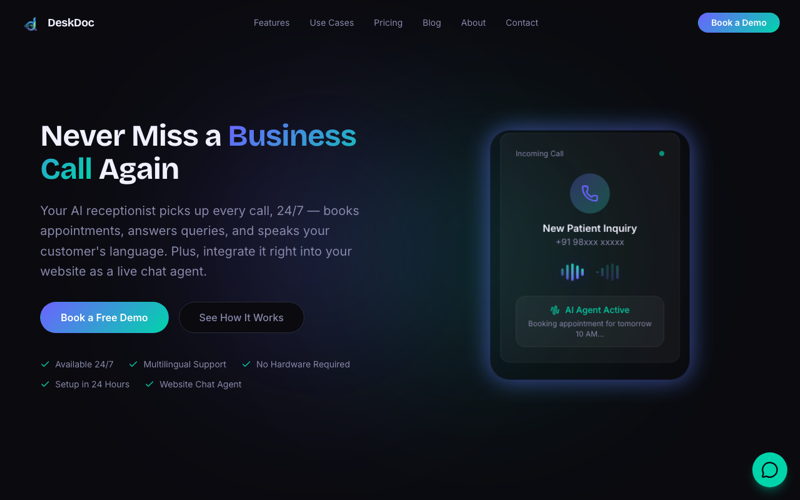
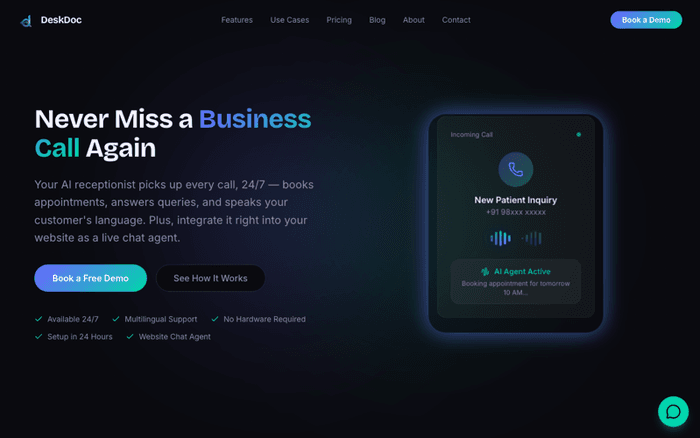
Closeout pass: contact form a11y, /projects LCP, heading order, resume link
- Fix InputField/TextareaField missing id attributes so label htmlFor
  actually resolves; also fix a fullname/fullName case mismatch that
  would have kept the association broken even with the id alone.
- Add :focus-visible border/ring to the Contact form's input and
  textarea — outline: none previously had no replacement.
- Convert featured project screenshots to WebP (with PNG fallback via
  picture), resize from 800x500 to 700x438 to match rendered column
  width, add fetchpriority="high" since they're LCP and not lazy
  loaded. /projects mobile Performance 82 -> 94.
- Fix heading-order skips on About, Resume, and Projects (traced DOM
  paths); also caught and fixed the same pattern on Contact
  (h2->h4->h6) while verifying, which wasn't in the original trace.
- Scope transition: all to the actual animated property in
  ContactItem, Button, and Contact (5 spots).
- Point both resume links (hero + About) at the Drive direct-download
  URL with target="_blank" rel="noreferrer"; verified in a signed-out
  browser context that it downloads directly with no auth prompt.
- Raise the Working Agreement's Lighthouse regression baseline to the
  current numbers (94+/98+ Perf, 100/100 A11y, 100 BP, 100 SEO).

Verified via production build + real-browser DOM checks, not just
Lighthouse scores: label/id resolution, focus-visible computed style
after transition settles, and heading sequences on all four routes.

Claude-Session: https://claude.ai/code/session_0196jSMfCTHy6QKvUqwCguaY

diff --git a/src/Pages/Contact.js b/src/Pages/Contact.js
@@ -98,11 +98,11 @@ function Contact() {
           <div className="left-content">
             {renderAlert()}
             <div className="contact-title">
-              <h4>Get In Touch</h4>
+              <h3>Get In Touch</h3>
             </div>
             <form className="form" onSubmit={handleSubmit}>
               <div className="form-field">
-                <label htmlFor="fullname">Enter your name*</label>
+                <label htmlFor="fullName">Enter your name*</label>
                 <InputField value={values.fullName} handleChange={handleChange} name="fullName" type="text" placeholder="Full Name" />
               </div>
               <div className="form-field">
@@ -192,7 +192,7 @@ const ContactPageStyled = styled.section`
       }
     }
     .contact-title {
-      h4 {
+      h3 {
         color: var(--white-color);
         padding: 1rem 0;
         font-size: 1.8rem;
@@ -224,6 +224,11 @@ const ContactPageStyled = styled.section`
           padding: 0 15px;
           width: 100%;
           color: inherit;
+          transition: border-color 0.2s ease, box-shadow 0.2s ease;
+          &:focus-visible {
+            border-color: var(--white-color);
+            box-shadow: 0 0 0 3px rgba(232, 233, 237, 0.15);
+          }
         }
         textarea {
           background-color: transparent;
@@ -232,6 +237,11 @@ const ContactPageStyled = styled.section`
           color: inherit;
           width: 100%;
           padding: 0.8rem 1rem;
+          transition: border-color 0.2s ease, box-shadow 0.2s ease;
+          &:focus-visible {
+            border-color: var(--white-color);
+            box-shadow: 0 0 0 3px rgba(232, 233, 237, 0.15);
+          }
         }
         button{
           outline: none;
@@ -241,7 +251,7 @@ const ContactPageStyled = styled.section`
     font-size: inherit;
     color: var(--white-color);
     cursor: pointer;
-    transition: all .4s ease-in-out;
+    transition: background-color .4s ease-in-out;
     margin-bottom: .6rem;
     &:active ,&:focus{
         background-color: var(--primary-color);
@@ -266,7 +276,7 @@ const ContactPageStyled = styled.section`
       a {
         color: var(--primary-color-light);
         text-decoration: underline;
-        transition: all 0.3s ease;
+        transition: color 0.3s ease;
         &:hover {
           color: var(--white-color);
         }
@@ -278,7 +288,7 @@ const ContactPageStyled = styled.section`
         font-size: var(--font-size-small);
         padding: 0.15rem 0.6rem;
         cursor: pointer;
-        transition: all 0.3s ease;
+        transition: border-color 0.3s ease, color 0.3s ease;
         &:hover {
           border-color: var(--primary-color-light);
           color: var(--primary-color-light);

diff --git a/src/Components/ImageSection.js b/src/Components/ImageSection.js
@@ -7,13 +7,13 @@ function ImageSection() {
     return (
         <ImageSectionStyled>
             <img src={resume} alt="Amritanshu Suyal" width="1600" height="1600" />
-            <h4>I am <span>Amritanshu</span></h4>
+            <h3>I am <span>Amritanshu</span></h3>
             <p className="paragraph">
                 I build the infrastructure that lets AI agents actually work inside enterprise software. At Darwinbox, an HRMS serving 4M+ enterprise users, I work on the agent platform — the layer between LLMs and real business systems.
                 <br /><br />
                 Most of the hard problems here aren't prompting. They're cost, correctness, and trust.
             </p>
-            <a href="/Amritanshu_Suyal_Resume.pdf" download><PrimaryButton title={'View Resume'} /></a>
+            <a href="https://drive.google.com/uc?export=download&id=1MJ50aA6VYjfRoU6xcYnS3a_wZZefAohU" target="_blank" rel="noreferrer"><PrimaryButton title={'View Resume'} /></a>
         </ImageSectionStyled>
     )
 }
@@ -27,7 +27,7 @@ const ImageSectionStyled = styled.div`
         object-fit: cover;
         margin-bottom: 1.5rem;
     }
-    h4{
+    h3{
         font-size: var(--font-size-h3);
         color: var(--white-color);
         span{

diff --git a/src/Components/FeaturedProjectCard.js b/src/Components/FeaturedProjectCard.js
@@ -1,12 +1,21 @@
 import React from "react";
 import styled from "styled-components";
 
-function FeaturedProjectCard({ image, title, text, link, stack }) {
+function FeaturedProjectCard({ image, imageWebp, imageWidth, imageHeight, title, text, link, stack }) {
   return (
     <FeaturedProjectCardStyled>
-      <img src={image} alt={`${title} screenshot`} />
+      <picture>
+        {imageWebp && <source srcSet={imageWebp} type="image/webp" />}
+        <img
+          src={image}
+          width={imageWidth}
+          height={imageHeight}
+          alt={`${title} screenshot`}
+          fetchpriority="high"
+        />
+      </picture>
       <div className="content">
-        <h4>{title}</h4>
+        <h3>{title}</h3>
         <p>{text}</p>
         {stack && stack.length > 0 && (
           <ul className="stack">
@@ -43,7 +52,7 @@ const FeaturedProjectCardStyled = styled.div`
     padding: 1.5rem;
   }
 
-  h4 {
+  h3 {
     color: var(--white-color);
     font-size: 1.6rem;
     padding-bottom: 0.6rem;

diff --git a/src/Pages/About.js b/src/Pages/About.js
@@ -33,14 +33,14 @@ function About() {
               </div>
             </div>
 
-            <h4 className="skills-heading">
+            <h3 className="skills-heading">
               <span className="tick" aria-hidden="true"></span>
               Skills
-            </h4>
+            </h3>
             <div className="skill-groups">
               {skillGroups.map((group) => (
                 <div className="skill-group" key={group.label}>
-                  <h5>{group.label}</h5>
+                  <h4>{group.label}</h4>
                   <div className="pills">
                     {group.items.map((item) => (
                       <span className="pill" key={item}>
@@ -112,7 +112,7 @@ const AboutStyled = styled.section`
     gap: 1.6rem;
   }
   .skill-group {
-    h5 {
+    h4 {
       color: var(--primary-color-light);
       font-size: var(--font-size-small);
       text-transform: uppercase;

diff --git a/src/Components/ResumeItem.js b/src/Components/ResumeItem.js
@@ -9,8 +9,8 @@ function ResumeItem({ year, title, subTitle, text, bullets }) {
                 <p>{year}</p>
             </div>
             <div className="right-content">
-                <h5>{title}</h5>
-                <h6>{subTitle}</h6>
+                <h4>{title}</h4>
+                <h5>{subTitle}</h5>
                 {text && <p>{text}</p>}
                 {bullets && (
                     <ul>
@@ -75,7 +75,7 @@ const ResumeItemStyled = styled.div`
                 display: none;
             }
         }
-        h5{
+        h4{
             color: var(--primary-color-light);
             font-size: var(--font-size-h5);
             margin-top: -0.7rem;
@@ -84,7 +84,7 @@ const ResumeItemStyled = styled.div`
                 margin-top: 0;
             }
         }
-        h6{
+        h5{
             padding-bottom: .6rem;
             font-size: var(--font-size-h6);
         }

diff --git a/src/Components/ContactItem.js b/src/Components/ContactItem.js
@@ -11,7 +11,7 @@ function ContactItem({title, icon, cont1, cont2}) {
                 }
             </div>
             <div className="right-content">
-                <h6>{title}</h6>
+                <h4>{title}</h4>
                 <p>{cont1}</p>
                 <p>{cont2}</p>
             </div>
@@ -40,7 +40,7 @@ const ContactItemStyled = styled.div`
         }
     }
     .right-content{
-        h6{
+        h4{
             color: var(--white-color);
             font-size: 1.2rem;
             padding-bottom: .6rem;
@@ -50,7 +50,7 @@ const ContactItemStyled = styled.div`
             a{
                 color: var(--primary-color-light);
                 text-decoration: underline;
-                transition: all 0.3s ease;
+                transition: color 0.3s ease;
                 &:hover{
                     color: var(--white-color);
                 }

diff --git a/src/Data/portfolios.js b/src/Data/portfolios.js
@@ -1,10 +1,15 @@
 import deskdoc from "../img/portImages/deskdoc.png";
+import deskdocWebp from "../img/portImages/deskdoc.webp";
 import finovaai from "../img/portImages/finovaai.png";
+import finovaaiWebp from "../img/portImages/finovaai.webp";
 
 export const featuredProjects = [
   {
     id: "deskdoc",
     image: deskdoc,
+    imageWebp: deskdocWebp,
+    imageWidth: 700,
+    imageHeight: 438,
     link: "https://deskdoc.in",
     title: "DeskDoc",
     text: "AI voice receptionist for clinics — cuts average call handling time by 40%.",
@@ -13,6 +18,9 @@ export const featuredProjects = [
   {
     id: "finovaai",
     image: finovaai,
+    imageWebp: finovaaiWebp,
+    imageWidth: 700,
+    imageHeight: 438,
     link: "https://finova-ai-official.vercel.app",
     title: "FinovaAI",
     text: "Personal finance app.",

diff --git a/src/Pages/Home.js b/src/Pages/Home.js
@@ -33,8 +33,9 @@ function Home() {
           </p>
           <div className="actions">
             <a
-              href="/Amritanshu_Suyal_Resume.pdf"
-              download
+              href="https://drive.google.com/uc?export=download&id=1MJ50aA6VYjfRoU6xcYnS3a_wZZefAohU"
+              target="_blank"
+              rel="noreferrer"
               className="resume-link"
             >
               Download Resume
@@ -81,6 +82,9 @@ function Home() {
               <FeaturedProjectCard
                 key={project.id}
                 image={project.image}
+                imageWebp={project.imageWebp}
+                imageWidth={project.imageWidth}
+                imageHeight={project.imageHeight}
                 title={project.title}
                 text={project.text}
                 link={project.link}

diff --git a/src/Components/InputField.js b/src/Components/InputField.js
@@ -3,8 +3,8 @@ const InputField = (props) => {
   const { handleChange, name, type, value } = props;
   return (
     <div className="mb-5">
-  
-      <input className="border-b-2 outline-none text-gray-700 w-full bg-gray-100 h-10 px-2" type={type} onChange={handleChange} value={value} name={name} required />
+
+      <input id={name} className="border-b-2 outline-none text-gray-700 w-full bg-gray-100 h-10 px-2" type={type} onChange={handleChange} value={value} name={name} required />
     </div>
   )
 }

diff --git a/src/Components/TextareaField.js b/src/Components/TextareaField.js
@@ -3,8 +3,8 @@ const TextareaField = (props) => {
   const { handleChange, name, value } = props;
   return (
     <div>
-  
-      <textarea onChange={handleChange} name={name} rows="4" className="w-full border-b-2 outline-none bg-gray-100 p-2" value={value}></textarea>
+
+      <textarea id={name} onChange={handleChange} name={name} rows="4" className="w-full border-b-2 outline-none bg-gray-100 p-2" value={value}></textarea>
     </div>
   )
 }

diff --git a/src/Pages/Projects.js b/src/Pages/Projects.js
@@ -36,6 +36,9 @@ function Projects() {
             <FeaturedProjectCard
               key={project.id}
               image={project.image}
+              imageWebp={project.imageWebp}
+              imageWidth={project.imageWidth}
+              imageHeight={project.imageHeight}
               title={project.title}
               text={project.text}
               link={project.link}

diff --git a/src/Components/Button.js b/src/Components/Button.js
@@ -23,7 +23,7 @@ const ButtonStyled = styled.button`
     font-size: inherit;
     color: var(--white-color);
     cursor: pointer;
-    transition: all .4s ease-in-out;
+    transition: background-color .4s ease-in-out;
     margin-bottom: .6rem;
     &:active ,&:focus{
         background-color: var(--primary-color);
